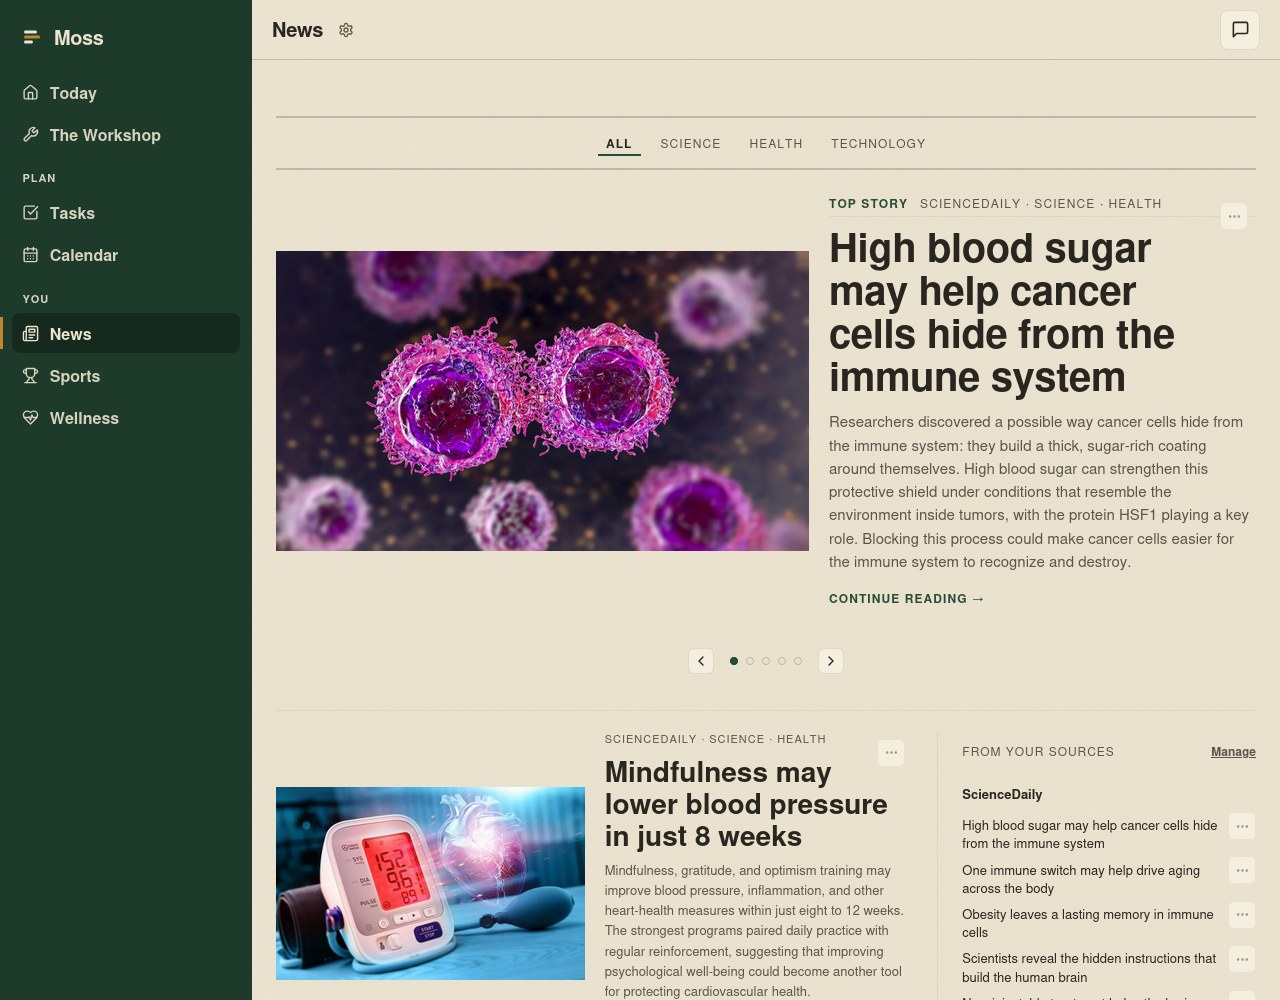
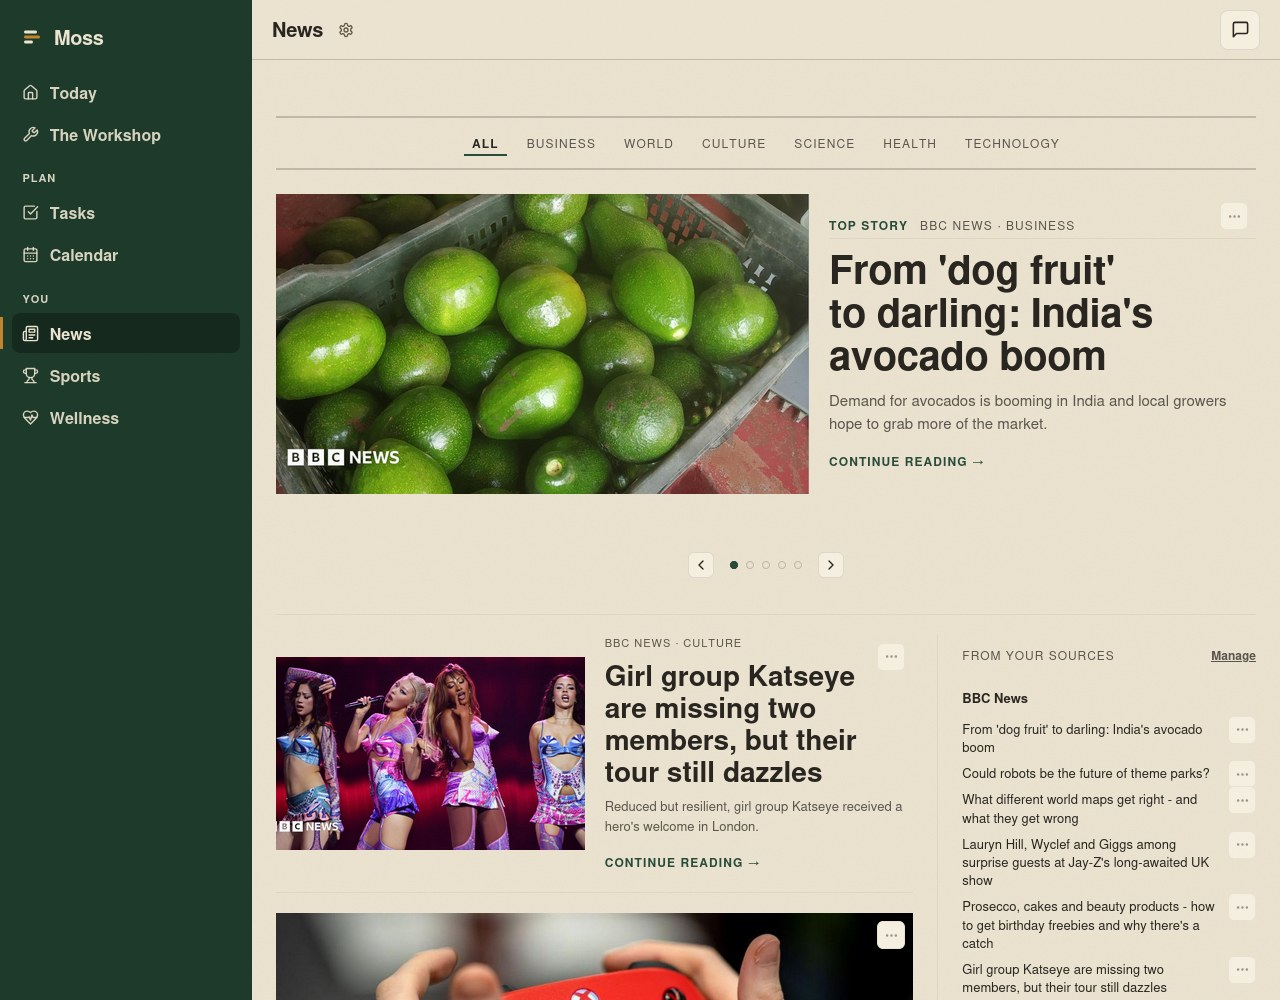
docs: show Luke's work and personal life in the Moss demo (#2302)

diff --git a/README.md b/README.md
@@ -28,25 +28,25 @@ You bring your own AI access. Moss supports chat through Claude, Codex, and Gemi
 
 ## A look inside Moss
 
-Meet **Luke**, a fictional researcher organizing work toward a cure for type 1 diabetes. These screenshots come from a running Moss demo with saved research notes, tasks, goals, contacts, calendar events, and wellness check-ins. Personal data is fictional; News and Sports show public provider content captured at the time. The research workspace illustrates organization, not clinical findings or a claimed cure.
+Meet **Luke**, a Moss user who brings his work and personal life together in one place. He uses Moss to organize his type 1 diabetes research, stay on top of everyday tasks, follow the news and his teams, and keep track of his wellbeing.
 
-**Today** brings Luke's research priorities, calendar, and daily context together.
+**Today** brings Luke's work priorities, personal plans, calendar, and daily context together.
 
-![Moss Today dashboard greeting Luke, with beta-cell research tasks and a clinical evidence reading session](docs/images/readme/moss-today.jpg)
+![Moss Today dashboard greeting Luke, with work priorities, personal tasks, calendar, and wellness](docs/images/readme/moss-today.jpg)
 
 <details>
-<summary><strong>Tasks — turn research into next actions</strong></summary>
+<summary><strong>Tasks — keep work and personal life organized</strong></summary>
 
-Luke's reading, evidence checks, and writing tasks, organized by priority and due date.
+Luke keeps separate **Work**, **Personal**, and **Home** task lists. Research deadlines sit alongside groceries, weekend plans, and household jobs, with priorities and due dates across all three.
 
-![Moss Tasks showing Luke's beta-cell replacement comparison, evidence review, and patient-priority questions](docs/images/readme/moss-tasks.jpg)
+![Moss Tasks showing Luke's Work, Personal, and Home tasks together](docs/images/readme/moss-tasks.jpg)
 
 </details>
 
 <details>
 <summary><strong>News — a reading desk for your sources</strong></summary>
 
-Headlines and source summaries in one place, with links to the original reporting.
+A mix of world news, technology, culture, and research, with source summaries and links to the original reporting.
 
 ![Moss News showing its front-page layout, lead story, and source headlines](docs/images/readme/moss-news.jpg)
 
@@ -55,20 +55,22 @@ Headlines and source summaries in one place, with links to the original reportin
 <details>
 <summary><strong>Sports — follow your teams</strong></summary>
 
-Luke follows the Mariners, Arsenal, and Warriors, with results, upcoming games, and sports coverage together.
+Luke follows **Liverpool**, the **San Francisco Giants**, the **Buffalo Bills**, the **Anaheim Ducks**, and **San Diego FC (SDFC)**, with results, upcoming games, and sports coverage together.
 
 ![Moss Sports showing Luke's followed teams, scores, upcoming games, and news](docs/images/readme/moss-sports.jpg)
+
+![More of Luke’s followed teams: the Buffalo Bills, San Diego FC, and Anaheim Ducks](docs/images/readme/moss-sports-teams.jpg)
 
 </details>
 
 <details>
 <summary><strong>Wellness — check in and notice patterns</strong></summary>
 
-Four weeks of fictional check-ins show how Luke balances focused research with rest and everyday life.
+Luke tracks his Vyvanse, Lexapro, and Vitamin D alongside daily check-ins. His recent history shows a steady routine with ordinary ups and downs across work, rest, and everyday life.
 
 ![Moss Wellness showing Luke's mood check-in and insights from his recent history](docs/images/readme/moss-wellness.jpg)
 
-![Moss Wellness chart showing 28 days of fictional mood check-ins](docs/images/readme/moss-wellness-trends.jpg)
+![Moss Wellness chart showing 28 days of Luke’s mood check-ins](docs/images/readme/moss-wellness-trends.jpg)
 
 </details>
 

diff --git a/docs/images/readme/README.md b/docs/images/readme/README.md
@@ -1,9 +1,9 @@
 # README screenshots
 
-Captured on September 5, 2026 from the real Moss web app in an isolated UAT instance using `ghcr.io/motioneso/moss:edge`.
+Captured from the real Moss web app in an isolated UAT instance using `ghcr.io/motioneso/moss:edge`.
 
-Luke is fictional. His workspace contains nine tasks, five research notes, two goals, four contacts, eight calendar events, and 28 wellness check-ins. The research notes organize questions about type 1 diabetes; they do not report new clinical findings. No patient records or production account data were used.
+Luke's demo workspace spans work and personal life: 17 tasks across Work, Personal, and Home lists, five research notes, two goals, four contacts, eight calendar events, three medications, and 28 wellness check-ins. Personal records and medication history are sample data.
 
-News articles came from [ScienceDaily's Health feed](https://www.sciencedaily.com/rss/top/health.xml), preserving their original titles, dates, links, and images. Sports coverage and results came from ESPN. These are captured examples, not live scores or headlines.
+News combines BBC general-interest reporting with ScienceDaily research articles, retaining original titles, dates, links, and images. Sports follows Liverpool, the San Francisco Giants, the Buffalo Bills, the Anaheim Ducks, and San Diego FC, with coverage and results from ESPN. These are captured examples, not live scores or headlines.
 
-The images are cropped Firefox viewport or section captures, encoded as JPEG. No UI text or data was replaced in the browser. Service workers were disabled in the capture browser so external images loaded directly. Screenshots demonstrate the interface, not offline/PWA behavior.
+The images are cropped Firefox viewport or section captures, encoded as JPEG. No UI text or data was replaced in the browser. Service workers were disabled in the capture browser so external images loaded directly.
